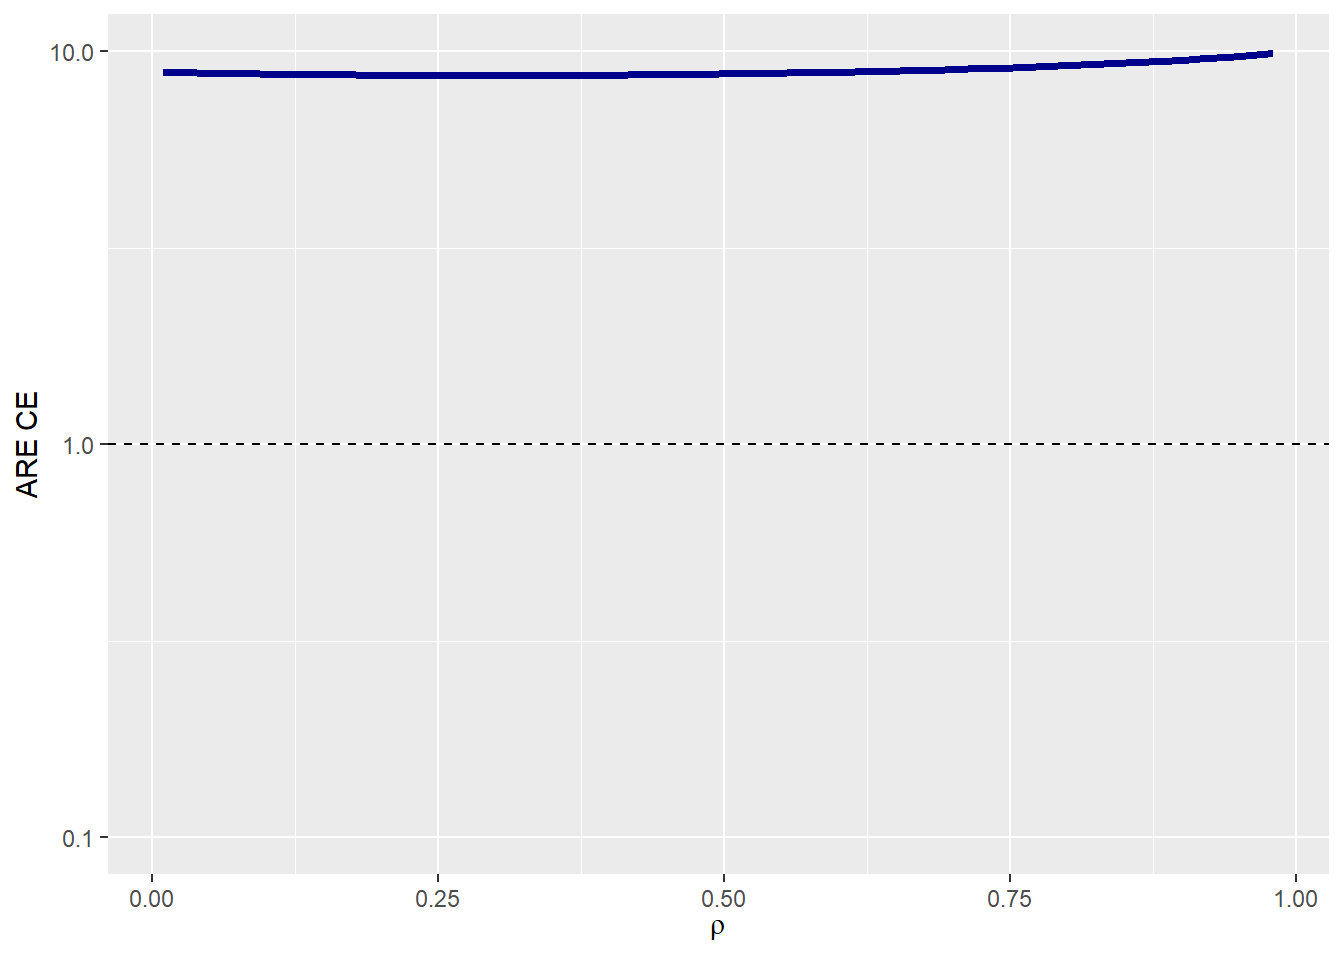
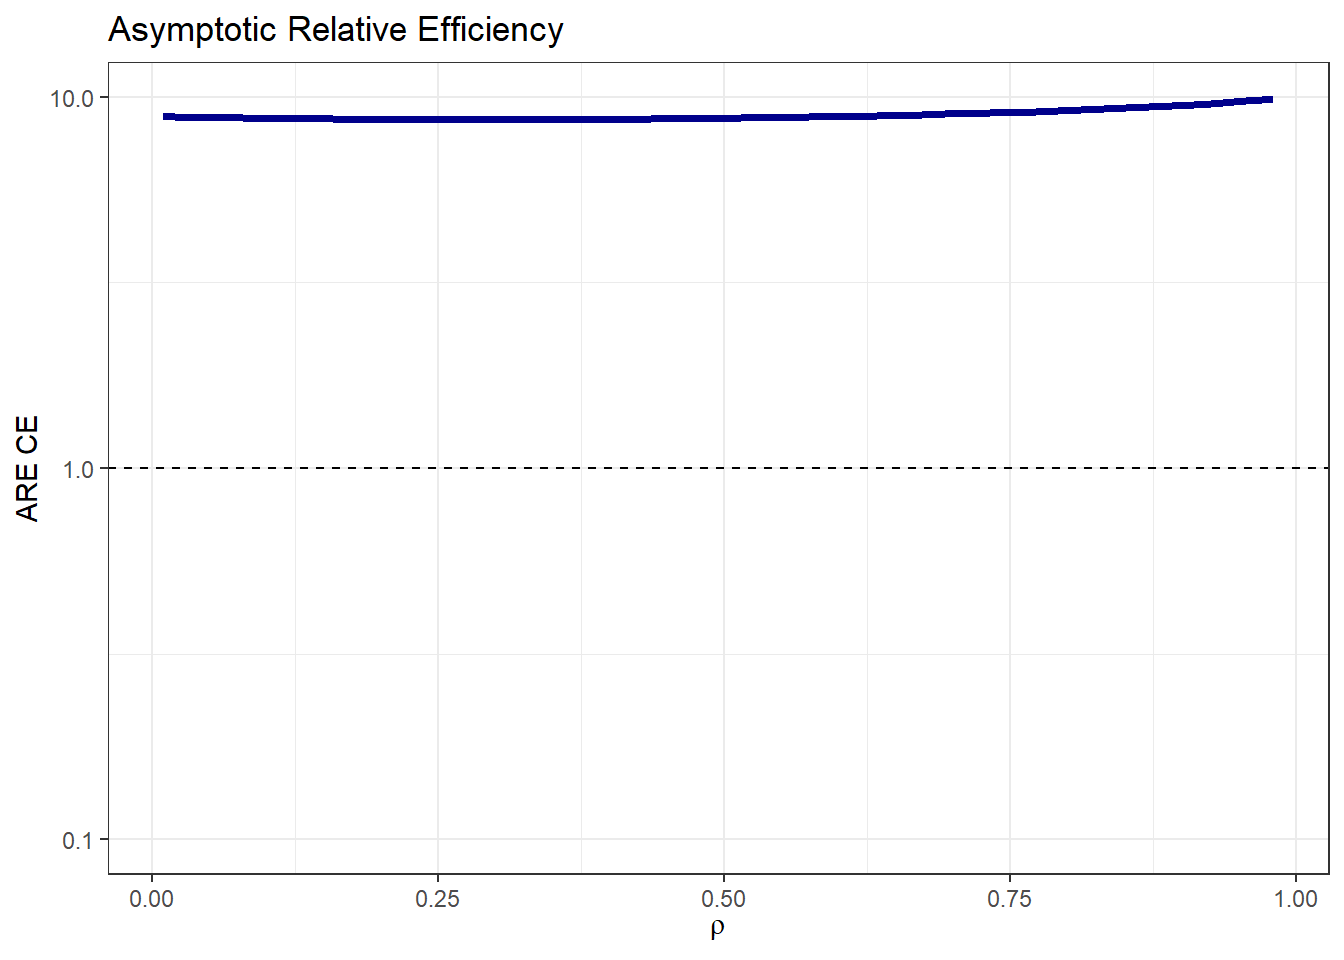
time_to_event vignette typos

Changed region(s): [[0.0312, 0.0, 0.9375, 0.125], [0.0, 0.4062, 0.0938, 0.5625], [0.0312, 0.0938, 0.0938, 0.125]]

diff --git a/timetoevent_vignette.html b/timetoevent_vignette.html
@@ -11,11 +11,11 @@
 
 <meta name="author" content="Jordi Cortés Martínez, Marta Bofill Roig and Guadalupe Gómez Melis" />
 
-<meta name="date" content="2025-02-14" />
+<meta name="date" content="2025-02-25" />
 
 <title>CompAREdesign: Time-to-event endpoint</title>
 
-<script src="site_libs/header-attrs-2.28/header-attrs.js"></script>
+<script src="site_libs/header-attrs-2.29/header-attrs.js"></script>
 <script src="site_libs/jquery-3.6.0/jquery-3.6.0.min.js"></script>
 <meta name="viewport" content="width=device-width, initial-scale=1" />
 <link href="site_libs/bootstrap-3.3.5/css/cosmo.min.css" rel="stylesheet" />
@@ -406,7 +406,7 @@ $(document).ready(function () {
 <h1 class="title toc-ignore">CompAREdesign: Time-to-event endpoint</h1>
 <h4 class="author">Jordi Cortés Martínez, Marta Bofill Roig and
 Guadalupe Gómez Melis</h4>
-<h4 class="date">2025-02-14</h4>
+<h4 class="date">2025-02-25</h4>
 
 </div>
 
@@ -425,7 +425,7 @@ NCSLC after progression following platinum-based first-line
 chemotherapy. The recent approval and increasing use of pemetrexed as
 first-line therapy in NSCLC suggest a continuing role for docetaxel as
 second-line therapy.</p>
-<p>We can use the information of thsi study to plan a new similar
+<p>We can use the information of this study to plan a new similar
 trial.</p>
 <div id="input-parameters" class="section level3">
 <h3>Input Parameters</h3>
@@ -520,7 +520,7 @@ over time)</td>
 <li><p>No deaths</p></li>
 <li><p>Death is the secondary event</p></li>
 <li><p>Death is the primary event;</p></li>
-<li><p>Both events are death by different</p></li>
+<li><p>Both events are death by different causes</p></li>
 </ol></td>
 </tr>
 </tbody>
@@ -543,7 +543,7 @@ attain the same power would be <strong>8.79 times higher</strong> if
 Endpoint 1 were used instead of CE.</p>
 <p><strong>In this case if we are not sure about the value of the
 correlation between</strong> <strong>components, it is not a problem
-beacuse using the CE as the primary endpoint</strong> <strong>results in
+because using the CE as the primary endpoint</strong> <strong>results in
 a more statistically efficient trial design regardless of the</strong>
 <strong>correlation ρ because ARE(ρ) &gt; 1.</strong></p>
 <div class="sourceCode" id="cb2"><pre class="sourceCode r"><code class="sourceCode r"><span id="cb2-1"><a href="#cb2-1" tabindex="-1"></a><span class="fu">ARE_tte</span>(<span class="at">p0_e1   =</span> p0_e1    , <span class="at">p0_e2    =</span> p0_e2, </span>
@@ -553,7 +553,6 @@ a more statistically efficient trial design regardless of the</strong>
 <span id="cb2-5"><a href="#cb2-5" tabindex="-1"></a>        <span class="at">copula  =</span> copula   , <span class="at">case     =</span> case,</span>
 <span id="cb2-6"><a href="#cb2-6" tabindex="-1"></a>        <span class="at">plot_print =</span> <span class="cn">TRUE</span>) </span></code></pre></div>
 <p><img src="timetoevent_vignette_files/figure-html/unnamed-chunk-2-1.png" width="672" /></p>
-<pre><code>## [1] 8.791</code></pre>
 </div>
 <div id="effect-size-of-the-composite-endpoint" class="section level3">
 <h3>Effect size of the Composite Endpoint</h3>
@@ -579,21 +578,12 @@ provided:</p>
 <li>Prob. CE (<strong>Probability of observing composite
 endpoint</strong>)</li>
 </ul>
-<div class="sourceCode" id="cb4"><pre class="sourceCode r"><code class="sourceCode r"><span id="cb4-1"><a href="#cb4-1" tabindex="-1"></a><span class="fu">effectsize_tte</span>(<span class="at">p0_e1   =</span> p0_e1    , <span class="at">p0_e2    =</span> p0_e2, </span>
-<span id="cb4-2"><a href="#cb4-2" tabindex="-1"></a>               <span class="at">HR_e1   =</span> HR_e1    , <span class="at">HR_e2    =</span> HR_e2, </span>
-<span id="cb4-3"><a href="#cb4-3" tabindex="-1"></a>               <span class="at">beta_e1 =</span> beta_e1  , <span class="at">beta_e2  =</span> beta_e2,  </span>
-<span id="cb4-4"><a href="#cb4-4" tabindex="-1"></a>               <span class="at">rho     =</span> rho      , <span class="at">rho_type =</span> rho_type, </span>
-<span id="cb4-5"><a href="#cb4-5" tabindex="-1"></a>               <span class="at">copula  =</span> copula   , <span class="at">case     =</span> case,</span>
-<span id="cb4-6"><a href="#cb4-6" tabindex="-1"></a>               <span class="at">plot_print =</span> <span class="cn">TRUE</span>) </span></code></pre></div>
-<pre><code>##  Effect measure Effect value | Group measure Reference Treated
-##  -------------- ------------ | ------------- --------- -------
-##  gAHR           0.8015       |                                
-##  AHR            0.8016       |                                
-##  RMST ratio     1.1633       | RMST          0.3918    0.4558 
-##  Median ratio   1.2321       | Median        0.3212    0.3958 
-##                              | Prob. E1      0.5900    0.5557 
-##                              | Prob. E2      0.7400    0.7125 
-##                              | Prob. CE      0.9300    0.8847</code></pre>
+<div class="sourceCode" id="cb3"><pre class="sourceCode r"><code class="sourceCode r"><span id="cb3-1"><a href="#cb3-1" tabindex="-1"></a><span class="fu">effectsize_tte</span>(<span class="at">p0_e1   =</span> p0_e1    , <span class="at">p0_e2    =</span> p0_e2, </span>
+<span id="cb3-2"><a href="#cb3-2" tabindex="-1"></a>               <span class="at">HR_e1   =</span> HR_e1    , <span class="at">HR_e2    =</span> HR_e2, </span>
+<span id="cb3-3"><a href="#cb3-3" tabindex="-1"></a>               <span class="at">beta_e1 =</span> beta_e1  , <span class="at">beta_e2  =</span> beta_e2,  </span>
+<span id="cb3-4"><a href="#cb3-4" tabindex="-1"></a>               <span class="at">rho     =</span> rho      , <span class="at">rho_type =</span> rho_type, </span>
+<span id="cb3-5"><a href="#cb3-5" tabindex="-1"></a>               <span class="at">copula  =</span> copula   , <span class="at">case     =</span> case,</span>
+<span id="cb3-6"><a href="#cb3-6" tabindex="-1"></a>               <span class="at">plot_print =</span> <span class="cn">TRUE</span>) </span></code></pre></div>
 <p><img src="timetoevent_vignette_files/figure-html/unnamed-chunk-3-1.png" width="672" /></p>
 <p>In the figure above, a slight increase in the HR of the CE is
 observed over time.</p>
@@ -604,27 +594,23 @@ observed over time.</p>
 for the trial using the CE as the primary endpoint as well as the sample
 size for each component. In our case study, the sample size using the CE
 would be <strong>1118</strong>.</p>
-<div class="sourceCode" id="cb6"><pre class="sourceCode r"><code class="sourceCode r"><span id="cb6-1"><a href="#cb6-1" tabindex="-1"></a><span class="fu">samplesize_tte</span>(<span class="at">p0_e1   =</span> p0_e1    , <span class="at">p0_e2    =</span> p0_e2, </span>
-<span id="cb6-2"><a href="#cb6-2" tabindex="-1"></a>               <span class="at">HR_e1   =</span> HR_e1    , <span class="at">HR_e2    =</span> HR_e2, </span>
-<span id="cb6-3"><a href="#cb6-3" tabindex="-1"></a>               <span class="at">beta_e1 =</span> beta_e1  , <span class="at">beta_e2  =</span> beta_e2,  </span>
-<span id="cb6-4"><a href="#cb6-4" tabindex="-1"></a>               <span class="at">rho     =</span> rho      , <span class="at">rho_type =</span> rho_type, </span>
-<span id="cb6-5"><a href="#cb6-5" tabindex="-1"></a>               <span class="at">copula  =</span> copula   , <span class="at">case     =</span> case, </span>
-<span id="cb6-6"><a href="#cb6-6" tabindex="-1"></a>               <span class="at">alpha   =</span> <span class="fl">0.025</span>    , <span class="at">power    =</span> <span class="fl">0.90</span>,</span>
-<span id="cb6-7"><a href="#cb6-7" tabindex="-1"></a>               <span class="at">ss_formula =</span> <span class="st">&#39;schoenfeld&#39;</span>, </span>
-<span id="cb6-8"><a href="#cb6-8" tabindex="-1"></a>               <span class="at">plot_print =</span> <span class="cn">TRUE</span>) </span></code></pre></div>
-<pre><code>##  Endpoint           Total sample size
-##  --------           -----------------
-##  Endpoint 1         9744             
-##  Endpoint 2         1002             
-##  Composite endpoint 1118</code></pre>
+<div class="sourceCode" id="cb4"><pre class="sourceCode r"><code class="sourceCode r"><span id="cb4-1"><a href="#cb4-1" tabindex="-1"></a><span class="fu">samplesize_tte</span>(<span class="at">p0_e1   =</span> p0_e1    , <span class="at">p0_e2    =</span> p0_e2, </span>
+<span id="cb4-2"><a href="#cb4-2" tabindex="-1"></a>               <span class="at">HR_e1   =</span> HR_e1    , <span class="at">HR_e2    =</span> HR_e2, </span>
+<span id="cb4-3"><a href="#cb4-3" tabindex="-1"></a>               <span class="at">beta_e1 =</span> beta_e1  , <span class="at">beta_e2  =</span> beta_e2,  </span>
+<span id="cb4-4"><a href="#cb4-4" tabindex="-1"></a>               <span class="at">rho     =</span> rho      , <span class="at">rho_type =</span> rho_type, </span>
+<span id="cb4-5"><a href="#cb4-5" tabindex="-1"></a>               <span class="at">copula  =</span> copula   , <span class="at">case     =</span> case, </span>
+<span id="cb4-6"><a href="#cb4-6" tabindex="-1"></a>               <span class="at">alpha   =</span> <span class="fl">0.025</span>    , <span class="at">power    =</span> <span class="fl">0.90</span>,</span>
+<span id="cb4-7"><a href="#cb4-7" tabindex="-1"></a>               <span class="at">ss_formula =</span> <span class="st">&#39;schoenfeld&#39;</span>, </span>
+<span id="cb4-8"><a href="#cb4-8" tabindex="-1"></a>               <span class="at">plot_print =</span> <span class="cn">TRUE</span>) </span></code></pre></div>
 <p><img src="timetoevent_vignette_files/figure-html/unnamed-chunk-4-1.png" width="672" /></p>
-<p>The required sample size for a trial with CE as primary endpoint
-depends on the correlation ρ. In general, sample size increases as the
-correlation also increases. The observed decrease in sample size for
-high correlations is due to the fact that if we keep the proportion of
-observed events fixed, the events in the second component would need to
-occur almost entirely before the end of the follow-up period to avoid
-not being observed due to the first competitive event.</p>
+<p>The required sample size for a trial with the composite endpoint (CE)
+as the primary endpoint depends on the correlation ρ. In general, as the
+correlation increases, the sample size also increases. The observed
+reduction in sample size for high correlations occurs because, if the
+proportion of observed events is kept constant, events in the second
+component must almost entirely occur before the end of the follow-up
+period. This is necessary to prevent them from being unobserved due to
+the occurrence of the first competitive event.</p>
 </div>
 <div id="influence-of-hazards-rates-over-time-on-the-effect-size"
 class="section level3">
@@ -641,71 +627,53 @@ increasing risk over time, while <span class="math inline">\(\beta_i
 class="math inline">\(\beta_i = 1\)</span> corresponds to a constant
 risk over time.</p>
 <p>To examine how this parameter influences the treatment effect of the
-composite endpoint (CE), the hazard ratio (HR) of the CE is plotted over
-time. When both risks are constant, the HR is almost constant, while
-when there is an increasing risk of disease progression over time, the
-HR decreases over time.</p>
-<div class="sourceCode" id="cb8"><pre class="sourceCode r"><code class="sourceCode r"><span id="cb8-1"><a href="#cb8-1" tabindex="-1"></a><span class="do">## Hazard rates over time Scenario 1</span></span>
-<span id="cb8-2"><a href="#cb8-2" tabindex="-1"></a>beta_e1 <span class="ot">&lt;-</span> <span class="dv">1</span>    <span class="co"># Death --&gt; constant over time</span></span>
-<span id="cb8-3"><a href="#cb8-3" tabindex="-1"></a>beta_e2 <span class="ot">&lt;-</span> <span class="dv">2</span>    <span class="co"># Disease Progression --&gt; increase over time</span></span>
-<span id="cb8-4"><a href="#cb8-4" tabindex="-1"></a><span class="fu">effectsize_tte</span>(<span class="at">p0_e1   =</span> p0_e1    , <span class="at">p0_e2    =</span> p0_e2, </span>
-<span id="cb8-5"><a href="#cb8-5" tabindex="-1"></a>               <span class="at">HR_e1   =</span> HR_e1    , <span class="at">HR_e2    =</span> HR_e2, </span>
-<span id="cb8-6"><a href="#cb8-6" tabindex="-1"></a>               <span class="at">beta_e1 =</span> beta_e1  , <span class="at">beta_e2  =</span> beta_e2,  </span>
-<span id="cb8-7"><a href="#cb8-7" tabindex="-1"></a>               <span class="at">rho     =</span> rho      , <span class="at">rho_type =</span> rho_type, </span>
-<span id="cb8-8"><a href="#cb8-8" tabindex="-1"></a>               <span class="at">copula  =</span> copula   , <span class="at">case     =</span> case, </span>
-<span id="cb8-9"><a href="#cb8-9" tabindex="-1"></a>               <span class="at">plot_print =</span> <span class="cn">TRUE</span>) </span></code></pre></div>
-<pre><code>##  Effect measure Effect value | Group measure Reference Treated
-##  -------------- ------------ | ------------- --------- -------
-##  gAHR           0.8046       |                                
-##  AHR            0.8046       |                                
-##  RMST ratio     1.1310       | RMST          0.3070    0.3472 
-##  Median ratio   1.1310       | Median        0.2820    0.3190 
-##                              | Prob. E1      0.5900    0.5557 
-##                              | Prob. E2      0.7400    0.7381 
-##                              | Prob. CE      0.9986    0.9943</code></pre>
+CE, the HR of the CE is plotted over time. When both risks are constant,
+the HR is almost constant, while when there is an increasing risk of
+disease progression over time, the HR decreases over time.</p>
+<div class="sourceCode" id="cb5"><pre class="sourceCode r"><code class="sourceCode r"><span id="cb5-1"><a href="#cb5-1" tabindex="-1"></a><span class="do">## Hazards&#39; rates over time Scenario 1</span></span>
+<span id="cb5-2"><a href="#cb5-2" tabindex="-1"></a>beta_e1 <span class="ot">&lt;-</span> <span class="dv">1</span>    <span class="co"># Death               --&gt; CONSTANT over time</span></span>
+<span id="cb5-3"><a href="#cb5-3" tabindex="-1"></a>beta_e2 <span class="ot">&lt;-</span> <span class="dv">2</span>    <span class="co"># Disease Progression --&gt; INCREASE over time</span></span>
+<span id="cb5-4"><a href="#cb5-4" tabindex="-1"></a><span class="fu">effectsize_tte</span>(<span class="at">p0_e1   =</span> p0_e1    , <span class="at">p0_e2    =</span> p0_e2, </span>
+<span id="cb5-5"><a href="#cb5-5" tabindex="-1"></a>               <span class="at">HR_e1   =</span> HR_e1    , <span class="at">HR_e2    =</span> HR_e2, </span>
+<span id="cb5-6"><a href="#cb5-6" tabindex="-1"></a>               <span class="at">beta_e1 =</span> beta_e1  , <span class="at">beta_e2  =</span> beta_e2,  </span>
+<span id="cb5-7"><a href="#cb5-7" tabindex="-1"></a>               <span class="at">rho     =</span> rho      , <span class="at">rho_type =</span> rho_type, </span>
+<span id="cb5-8"><a href="#cb5-8" tabindex="-1"></a>               <span class="at">copula  =</span> copula   , <span class="at">case     =</span> case, </span>
+<span id="cb5-9"><a href="#cb5-9" tabindex="-1"></a>               <span class="at">plot_print =</span> <span class="cn">TRUE</span>) </span></code></pre></div>
 <p><img src="timetoevent_vignette_files/figure-html/unnamed-chunk-5-1.png" width="672" /></p>
-<div class="sourceCode" id="cb10"><pre class="sourceCode r"><code class="sourceCode r"><span id="cb10-1"><a href="#cb10-1" tabindex="-1"></a><span class="do">## Hazard rates over time Scenario 2</span></span>
-<span id="cb10-2"><a href="#cb10-2" tabindex="-1"></a>beta_e1 <span class="ot">&lt;-</span> <span class="dv">1</span>    <span class="co"># Death --&gt; constant over time</span></span>
-<span id="cb10-3"><a href="#cb10-3" tabindex="-1"></a>beta_e2 <span class="ot">&lt;-</span> <span class="dv">1</span>    <span class="co"># Disease Progression --&gt; constant over time</span></span>
-<span id="cb10-4"><a href="#cb10-4" tabindex="-1"></a><span class="fu">effectsize_tte</span>(<span class="at">p0_e1   =</span> p0_e1    , <span class="at">p0_e2    =</span> p0_e2, </span>
-<span id="cb10-5"><a href="#cb10-5" tabindex="-1"></a>               <span class="at">HR_e1   =</span> HR_e1    , <span class="at">HR_e2    =</span> HR_e2, </span>
-<span id="cb10-6"><a href="#cb10-6" tabindex="-1"></a>               <span class="at">beta_e1 =</span> beta_e1  , <span class="at">beta_e2  =</span> beta_e2,  </span>
-<span id="cb10-7"><a href="#cb10-7" tabindex="-1"></a>               <span class="at">rho     =</span> rho      , <span class="at">rho_type =</span> rho_type, </span>
-<span id="cb10-8"><a href="#cb10-8" tabindex="-1"></a>               <span class="at">copula  =</span> copula   , <span class="at">case     =</span> case, </span>
-<span id="cb10-9"><a href="#cb10-9" tabindex="-1"></a>               <span class="at">plot_print =</span> <span class="cn">TRUE</span>) </span></code></pre></div>
-<pre><code>##  Effect measure Effect value | Group measure Reference Treated
-##  -------------- ------------ | ------------- --------- -------
-##  gAHR           0.8039       |                                
-##  AHR            0.8039       |                                
-##  RMST ratio     1.2055       | RMST          0.2804    0.3380 
-##  Median ratio   1.2454       | Median        0.1990    0.2478 
-##                              | Prob. E1      0.5900    0.5557 
-##                              | Prob. E2      0.7400    0.7332 
-##                              | Prob. CE      0.9676    0.9360</code></pre>
+<div class="sourceCode" id="cb6"><pre class="sourceCode r"><code class="sourceCode r"><span id="cb6-1"><a href="#cb6-1" tabindex="-1"></a><span class="do">## Hazards&#39; rates over time Scenario 2</span></span>
+<span id="cb6-2"><a href="#cb6-2" tabindex="-1"></a>beta_e1 <span class="ot">&lt;-</span> <span class="dv">1</span>    <span class="co"># Death               --&gt; CONSTANT over time</span></span>
+<span id="cb6-3"><a href="#cb6-3" tabindex="-1"></a>beta_e2 <span class="ot">&lt;-</span> <span class="dv">1</span>    <span class="co"># Disease Progression --&gt; CONSTANT over time</span></span>
+<span id="cb6-4"><a href="#cb6-4" tabindex="-1"></a><span class="fu">effectsize_tte</span>(<span class="at">p0_e1   =</span> p0_e1    , <span class="at">p0_e2    =</span> p0_e2, </span>
+<span id="cb6-5"><a href="#cb6-5" tabindex="-1"></a>               <span class="at">HR_e1   =</span> HR_e1    , <span class="at">HR_e2    =</span> HR_e2, </span>
+<span id="cb6-6"><a href="#cb6-6" tabindex="-1"></a>               <span class="at">beta_e1 =</span> beta_e1  , <span class="at">beta_e2  =</span> beta_e2,  </span>
+<span id="cb6-7"><a href="#cb6-7" tabindex="-1"></a>               <span class="at">rho     =</span> rho      , <span class="at">rho_type =</span> rho_type, </span>
+<span id="cb6-8"><a href="#cb6-8" tabindex="-1"></a>               <span class="at">copula  =</span> copula   , <span class="at">case     =</span> case, </span>
+<span id="cb6-9"><a href="#cb6-9" tabindex="-1"></a>               <span class="at">plot_print =</span> <span class="cn">TRUE</span>) </span></code></pre></div>
 <p><img src="timetoevent_vignette_files/figure-html/unnamed-chunk-5-2.png" width="672" /></p>
 </div>
 <div id="summary-plots" class="section level3">
 <h3>Summary plots</h3>
 <p><code>plot_tte</code> returns all the relevant plots for the trial
 design if <code>summary=TRUE</code>.</p>
-<div class="sourceCode" id="cb12"><pre class="sourceCode r"><code class="sourceCode r"><span id="cb12-1"><a href="#cb12-1" tabindex="-1"></a><span class="fu">plot_tte</span>(<span class="at">p0_e1   =</span> p0_e1    , <span class="at">p0_e2    =</span> p0_e2, </span>
-<span id="cb12-2"><a href="#cb12-2" tabindex="-1"></a>         <span class="at">HR_e1   =</span> HR_e1    , <span class="at">HR_e2    =</span> HR_e2, </span>
-<span id="cb12-3"><a href="#cb12-3" tabindex="-1"></a>         <span class="at">beta_e1 =</span> beta_e1  , <span class="at">beta_e2  =</span> beta_e2,  </span>
-<span id="cb12-4"><a href="#cb12-4" tabindex="-1"></a>         <span class="at">rho     =</span> rho      , <span class="at">rho_type =</span> rho_type, </span>
-<span id="cb12-5"><a href="#cb12-5" tabindex="-1"></a>         <span class="at">copula  =</span> copula   , <span class="at">case     =</span> case, </span>
-<span id="cb12-6"><a href="#cb12-6" tabindex="-1"></a>         <span class="at">summary =</span> <span class="cn">TRUE</span>) </span></code></pre></div>
+<div class="sourceCode" id="cb7"><pre class="sourceCode r"><code class="sourceCode r"><span id="cb7-1"><a href="#cb7-1" tabindex="-1"></a><span class="fu">plot_tte</span>(<span class="at">p0_e1   =</span> p0_e1    , <span class="at">p0_e2    =</span> p0_e2, </span>
+<span id="cb7-2"><a href="#cb7-2" tabindex="-1"></a>         <span class="at">HR_e1   =</span> HR_e1    , <span class="at">HR_e2    =</span> HR_e2, </span>
+<span id="cb7-3"><a href="#cb7-3" tabindex="-1"></a>         <span class="at">beta_e1 =</span> beta_e1  , <span class="at">beta_e2  =</span> beta_e2,  </span>
+<span id="cb7-4"><a href="#cb7-4" tabindex="-1"></a>         <span class="at">rho     =</span> rho      , <span class="at">rho_type =</span> rho_type, </span>
+<span id="cb7-5"><a href="#cb7-5" tabindex="-1"></a>         <span class="at">copula  =</span> copula   , <span class="at">case     =</span> case, </span>
+<span id="cb7-6"><a href="#cb7-6" tabindex="-1"></a>         <span class="at">summary =</span> <span class="cn">TRUE</span>) </span></code></pre></div>
 <p><img src="timetoevent_vignette_files/figure-html/unnamed-chunk-6-1.png" width="672" /></p>
-<p>If <code>summary=FALSE</code> it is possible to choose the plot to
-obtain (‘survival’, ‘effect’, ‘ARE’, ‘samplesize’) and even more it is
-possible to modify it.</p>
-<div class="sourceCode" id="cb13"><pre class="sourceCode r"><code class="sourceCode r"><span id="cb13-1"><a href="#cb13-1" tabindex="-1"></a><span class="fu">plot_tte</span>(<span class="at">p0_e1   =</span> p0_e1    , <span class="at">p0_e2    =</span> p0_e2, </span>
-<span id="cb13-2"><a href="#cb13-2" tabindex="-1"></a>         <span class="at">HR_e1   =</span> HR_e1    , <span class="at">HR_e2    =</span> HR_e2, </span>
-<span id="cb13-3"><a href="#cb13-3" tabindex="-1"></a>         <span class="at">beta_e1 =</span> beta_e1  , <span class="at">beta_e2  =</span> beta_e2,  </span>
-<span id="cb13-4"><a href="#cb13-4" tabindex="-1"></a>         <span class="at">rho     =</span> rho      , <span class="at">rho_type =</span> rho_type, </span>
-<span id="cb13-5"><a href="#cb13-5" tabindex="-1"></a>         <span class="at">copula  =</span> copula   , <span class="at">case     =</span> case, </span>
-<span id="cb13-6"><a href="#cb13-6" tabindex="-1"></a>         <span class="at">summary =</span> <span class="cn">FALSE</span>    , <span class="at">type     =</span> <span class="st">&#39;ARE&#39;</span>) <span class="sc">+</span> </span>
-<span id="cb13-7"><a href="#cb13-7" tabindex="-1"></a>  <span class="fu">ggtitle</span>(<span class="st">&#39;Asymptotic Relative Efficiency&#39;</span>) <span class="sc">+</span> <span class="fu">theme_bw</span>()</span></code></pre></div>
-<p><img src="timetoevent_vignette_files/figure-html/unnamed-chunk-7-1.png" width="672" /><img src="timetoevent_vignette_files/figure-html/unnamed-chunk-7-2.png" width="672" /></p>
+<p>If <code>summary=FALSE</code>, you can select the plot to generate
+among different options (<code>survival</code>, <code>effect</code>,
+<code>ARE</code>, or <code>samplesize</code>) and further customize it
+as needed.</p>
+<div class="sourceCode" id="cb8"><pre class="sourceCode r"><code class="sourceCode r"><span id="cb8-1"><a href="#cb8-1" tabindex="-1"></a><span class="fu">plot_tte</span>(<span class="at">p0_e1   =</span> p0_e1    , <span class="at">p0_e2    =</span> p0_e2, </span>
+<span id="cb8-2"><a href="#cb8-2" tabindex="-1"></a>         <span class="at">HR_e1   =</span> HR_e1    , <span class="at">HR_e2    =</span> HR_e2, </span>
+<span id="cb8-3"><a href="#cb8-3" tabindex="-1"></a>         <span class="at">beta_e1 =</span> beta_e1  , <span class="at">beta_e2  =</span> beta_e2,  </span>
+<span id="cb8-4"><a href="#cb8-4" tabindex="-1"></a>         <span class="at">rho     =</span> rho      , <span class="at">rho_type =</span> rho_type, </span>
+<span id="cb8-5"><a href="#cb8-5" tabindex="-1"></a>         <span class="at">copula  =</span> copula   , <span class="at">case     =</span> case, </span>
+<span id="cb8-6"><a href="#cb8-6" tabindex="-1"></a>         <span class="at">summary =</span> <span class="cn">FALSE</span>    , <span class="at">type     =</span> <span class="st">&#39;ARE&#39;</span>) <span class="sc">+</span> </span>
+<span id="cb8-7"><a href="#cb8-7" tabindex="-1"></a>  <span class="fu">ggtitle</span>(<span class="st">&#39;Asymptotic Relative Efficiency&#39;</span>) <span class="sc">+</span> <span class="fu">theme_bw</span>()</span></code></pre></div>
+<p><img src="timetoevent_vignette_files/figure-html/unnamed-chunk-7-1.png" width="672" /></p>
 </div>
 </div>
 <div id="references" class="section level2">
